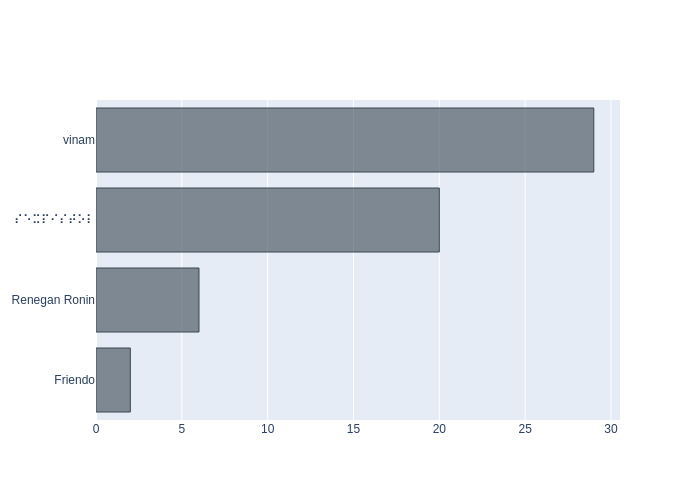
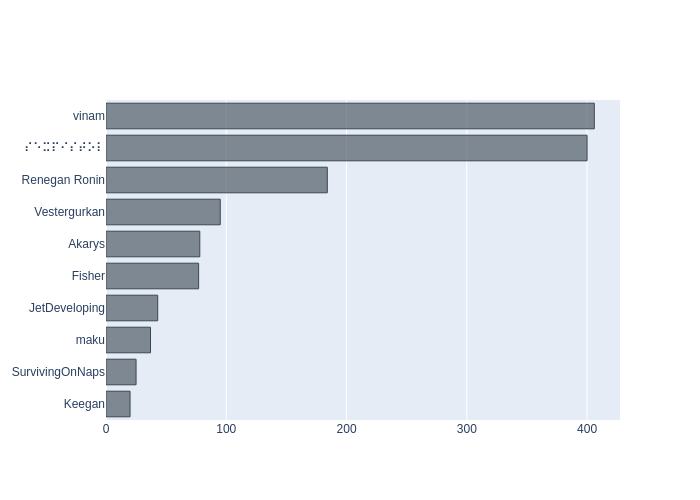
Made the graph only have upto 10 people

diff --git a/cogs/images.py b/cogs/images.py
@@ -53,8 +53,8 @@ class Images(commands.Cog):
 
 
 
-	@commands.command(aliases=['spook', 'ghost'], brief='spookify a pfp', usage='t!ghostify [user (optional)]')
-	async def ghostify(self, ctx, dude: discord.Member=None):
+	@commands.command(aliases=['reversed', 'ghostify'], brief='invert a pfp', usage='t!invcert [user (optional)]')
+	async def invert(self, ctx, dude: discord.Member=None):
 	    dude = dude
 	    image_bytes = ctx.author.avatar_url.read() if not dude else dude.avatar_url.read()
 	    img = Image.open(BytesIO(await image_bytes))
@@ -67,7 +67,7 @@ class Images(commands.Cog):
 	    buffer.seek(0)
 	    file = discord.File(buffer, filename='spooky.png')
 
-	    await ctx.send(content="Here's your Ghostified avatar", file=file)
+	    await ctx.send(content="Here's your Inverted avatar", file=file)
 	@commands.command(brief='Get a triggered gif of a pfp', usage='t!trigger [user (optional)]', aliases=['triggered', 'angered'])
 	async def trigger(self, ctx, dude: discord.Member=None):
 	    user = ctx.author.avatar_url if not dude else dude.avatar_url

diff --git a/main.py b/main.py
@@ -47,7 +47,6 @@ async def reload(ctx, *, modules):
 			await ctx.send(f"{modules} reloaded")
 	except Exception as e:
 		await ctx.send(f":x: Cogs reloading unsuccessful, \n`{e}`")
-		raise e
 
 @toshi.command(brief="load the specified cogs, owner only",
 			   usage="t!reload [cog]")
@@ -59,7 +58,6 @@ async def load(ctx, *, modules):
 		await ctx.send(f"{modules} loaded")
 	except Exception as e:
 		await ctx.send(f":x: Cogs loading unsuccessful, \n`{e}`")
-		raise e
 
 @toshi.command(brief="unload the specified cogs, owner only",
 			   usage="t!reload [cog]")
@@ -78,7 +76,6 @@ async def unload(ctx, *, modules):
 			await ctx.send(f"{modules} unloaded")
 	except Exception as e:
 		await ctx.send(f":x: Cogs unloading unsuccessful, \n`{e}`")
-		raise e
 
 @toshi.event
 async def on_message(message):

diff --git a/cogs/utility.py b/cogs/utility.py
@@ -251,8 +251,8 @@ class Utility(commands.Cog):
                 for i in msgs:
                     m_count.update({str(self.bot.get_user(list(i.values())[0]))[:-5]: list(i.values())[1]})
                 m_count = {k: m_count[k] for k in sorted(m_count, key=lambda y: m_count[y])}
-                msg_count = list(m_count.values())
-                name = list(m_count.keys())
+                msg_count = list(m_count.values())[::-1][:10][::-1]
+                name = list(m_count.keys())[::-1][:10][::-1]
 
                 fig = go.Figure(go.Bar(y=name,
                                        x=msg_count,
